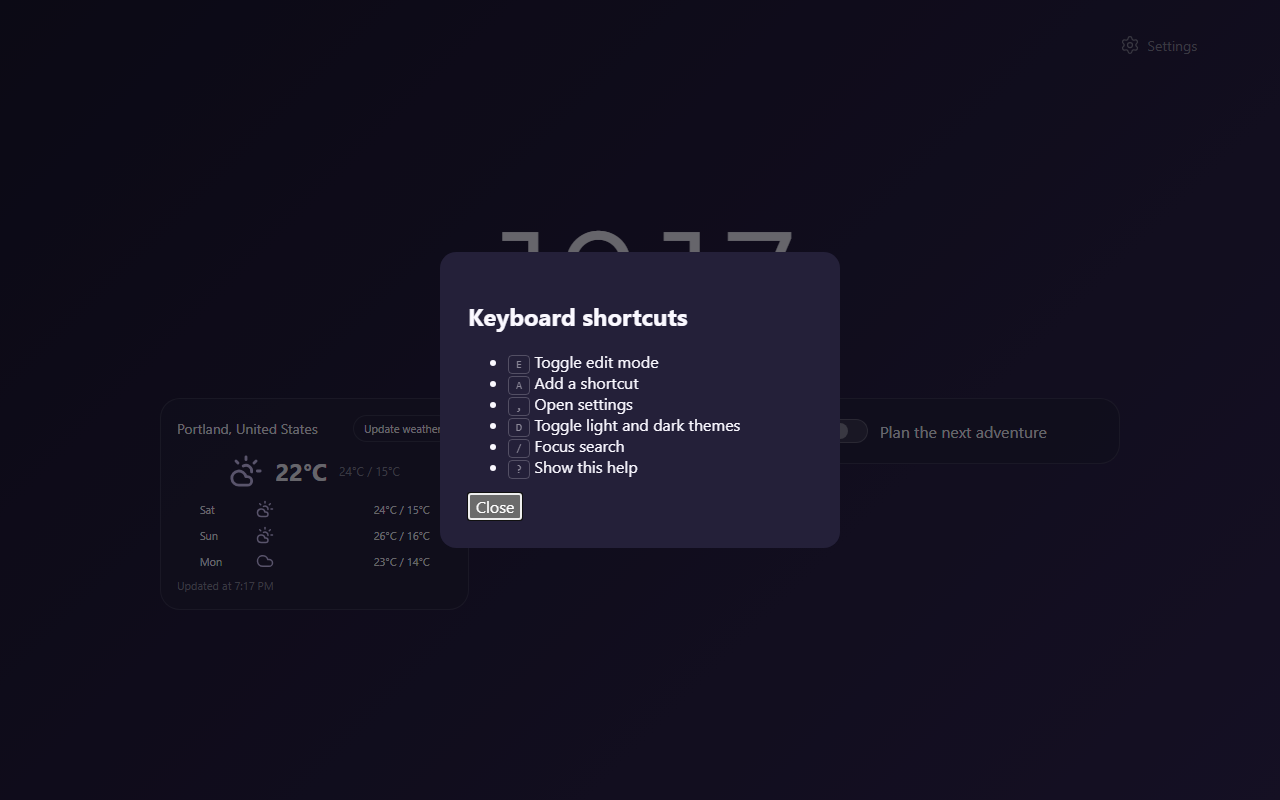
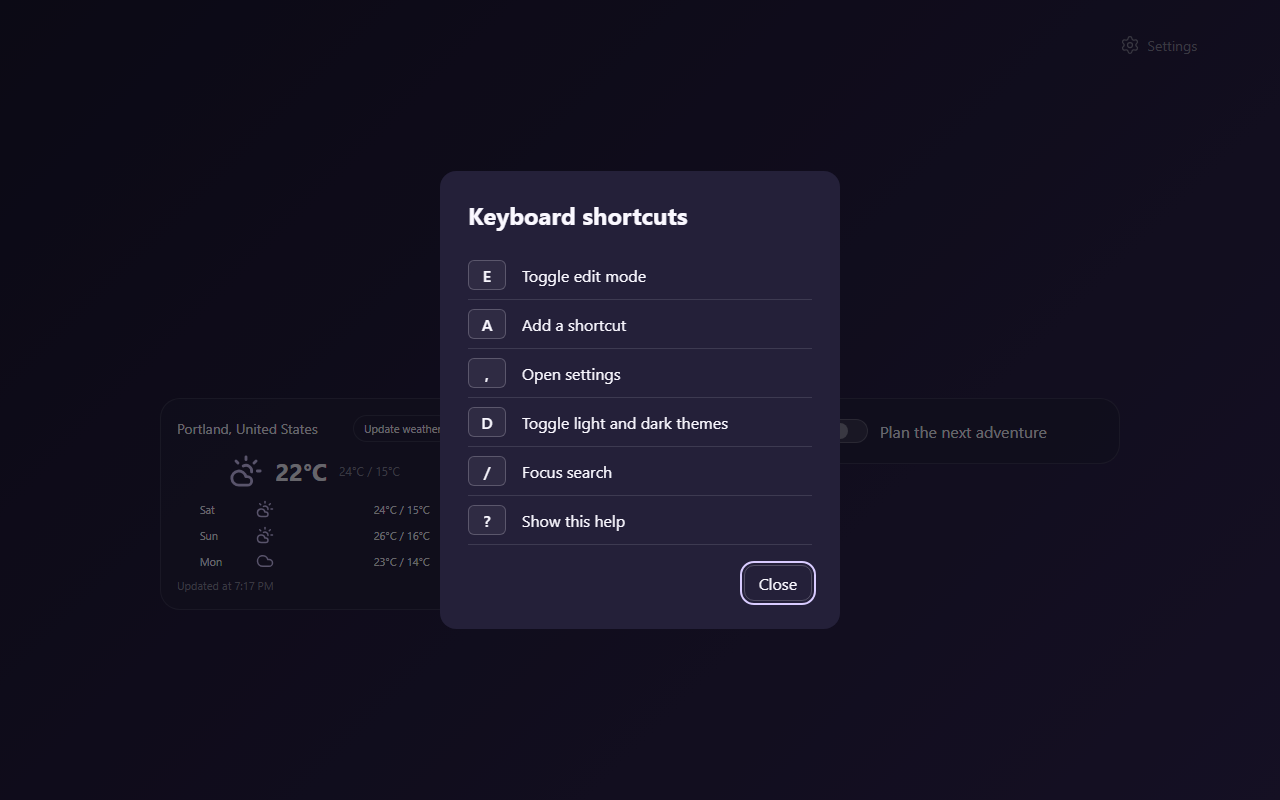
fix: style keyboard shortcuts dialog and preserve focus

Changed region(s): [[0.3438, 0.1875, 0.6562, 0.8125]]

diff --git a/src/app/App.tsx b/src/app/App.tsx
@@ -17,6 +17,7 @@ import { useSettings } from './useSettings'
 import { useAssetFonts } from './useAssetFonts'
 import { useUserCss } from './useUserCss'
 import { useWallpaper } from './useWallpaper'
+import { KeyboardHelp } from './KeyboardHelp'
 
 const SyncApp = lazy(() => import('./syncRuntime').then(m => ({ default: m.SyncApp })))
 const SettingsDrawer = lazy(() => import('../features/settings/SettingsDrawer').then(m => ({ default: m.SettingsDrawer })))
@@ -60,6 +61,7 @@ export default function App() {
     const onKeyDown = (event: KeyboardEvent) => {
       const target = event.target as HTMLElement | null
       const typing = !!target?.closest('input, textarea, select, [contenteditable]:not([contenteditable="false"])')
+      if (keyboardHelpOpen) return
       if ((event.ctrlKey || event.metaKey) && !event.shiftKey && event.key.toLowerCase() === 'z' && !typing) {
         event.preventDefault()
         undo()
@@ -76,7 +78,7 @@ export default function App() {
     }
     window.addEventListener('keydown', onKeyDown)
     return () => window.removeEventListener('keydown', onKeyDown)
-  }, [undo, settings, patch])
+  }, [undo, settings, patch, profile, keyboardHelpOpen])
   const [drawer, setDrawer] = useState(false)
   useEffect(() => { if (drawer) setSyncMounted(true) }, [drawer])
   const [managingGroups, setManagingGroups] = useState(false)
@@ -339,7 +341,7 @@ export default function App() {
       />}
 
       {menu && <ContextMenu x={menu.x} y={menu.y} items={menuItems(menu)} onClose={closeMenu} returnFocus={menu.focusTarget} />}
-      {keyboardHelpOpen && <div className="modal-backdrop" onClick={event => { if (event.target === event.currentTarget) setKeyboardHelpOpen(false) }}><div className="modal" role="dialog" aria-modal="true" aria-labelledby="keyboard-help-title" onKeyDown={event => { if (event.key === 'Escape') setKeyboardHelpOpen(false) }}><h2 id="keyboard-help-title">{t('keyboard.helpTitle')}</h2><ul>{(['edit', 'add', 'settings', 'theme', 'search', 'help'] as const).map((action, index) => <li key={action}><kbd>{['E', 'A', ',', 'D', '/', '?'][index]}</kbd> {t(`keyboard.${action}` as MessageKey)}</li>)}</ul><button type="button" autoFocus className="sd-button" onClick={() => setKeyboardHelpOpen(false)}>{t('common.close')}</button></div></div>}
+      {keyboardHelpOpen && <KeyboardHelp t={t} onClose={() => setKeyboardHelpOpen(false)} />}
       {moving && profile && <div className="modal-backdrop" role="presentation">
         <form className="modal" role="dialog" aria-modal="true" aria-labelledby="move-bookmark-title" onSubmit={moveShortcut} onKeyDown={event => { if (event.key === 'Escape') setMoving(null) }}>
           <h2 id="move-bookmark-title">{t('shortcuts.moveDialog')}</h2>

diff --git a/src/app/KeyboardHelp.test.tsx b/src/app/KeyboardHelp.test.tsx
@@ -1,0 +1,37 @@
+import '@testing-library/jest-dom/vitest'
+import { cleanup, fireEvent, render, screen } from '@testing-library/react'
+import { afterEach, expect, it, vi } from 'vitest'
+import { translate } from '../i18n'
+import { KeyboardHelp } from './KeyboardHelp'
+
+afterEach(cleanup)
+
+it('traps focus and restores it after Escape or backdrop dismissal', () => {
+  const opener = document.createElement('button')
+  document.body.appendChild(opener)
+  opener.focus()
+  const close = vi.fn()
+  const view = render(<KeyboardHelp t={key => translate('en', key)} onClose={close} />)
+  const button = screen.getByRole('button', { name: 'Close' })
+  expect(button).toHaveFocus()
+  fireEvent.keyDown(button, { key: 'Tab' })
+  expect(button).toHaveFocus()
+  fireEvent.keyDown(button, { key: 'Tab', shiftKey: true })
+  expect(button).toHaveFocus()
+  fireEvent.keyDown(button, { key: 'Escape' })
+  expect(close).toHaveBeenCalledTimes(1)
+  view.unmount()
+  expect(opener).toHaveFocus()
+  opener.remove()
+})
+
+it('closes only when clicking the backdrop and renders Chinese labels', () => {
+  const close = vi.fn()
+  const { container } = render(<KeyboardHelp t={key => translate('zh-CN', key)} onClose={close} />)
+  const dialog = screen.getByRole('dialog')
+  expect(dialog.querySelectorAll('kbd')).toHaveLength(6)
+  fireEvent.click(dialog)
+  expect(close).not.toHaveBeenCalled()
+  fireEvent.click(container.querySelector('.modal-backdrop')!)
+  expect(close).toHaveBeenCalledTimes(1)
+})

diff --git a/src/app/KeyboardHelp.tsx b/src/app/KeyboardHelp.tsx
@@ -1,0 +1,27 @@
+import { useEffect, useRef } from 'react'
+import type { Translate } from '../i18n'
+
+const shortcuts = [
+  ['E', 'keyboard.edit'], ['A', 'keyboard.add'], [',', 'keyboard.settings'],
+  ['D', 'keyboard.theme'], ['/', 'keyboard.search'], ['?', 'keyboard.help'],
+] as const
+
+export function KeyboardHelp({ t, onClose }: { t: Translate; onClose: () => void }) {
+  const closeButton = useRef<HTMLButtonElement>(null)
+  useEffect(() => {
+    const previous = document.activeElement instanceof HTMLElement ? document.activeElement : null
+    closeButton.current?.focus()
+    return () => { if (previous?.isConnected) previous.focus() }
+  }, [])
+
+  return <div className="modal-backdrop" onClick={event => { if (event.target === event.currentTarget) onClose() }}>
+    <div className="modal keyboard-help" role="dialog" aria-modal="true" aria-labelledby="keyboard-help-title" onKeyDown={event => {
+      if (event.key === 'Escape') { event.stopPropagation(); onClose() }
+      else if (event.key === 'Tab') { event.preventDefault(); closeButton.current?.focus() }
+    }}>
+      <h2 id="keyboard-help-title">{t('keyboard.helpTitle')}</h2>
+      <ul className="keyboard-help-list">{shortcuts.map(([key, label]) => <li key={label}><kbd>{key}</kbd><span>{t(label)}</span></li>)}</ul>
+      <div className="keyboard-help-actions"><button ref={closeButton} type="button" className="sd-button" onClick={onClose}>{t('common.close')}</button></div>
+    </div>
+  </div>
+}

diff --git a/src/styles/widgets.css b/src/styles/widgets.css
@@ -392,6 +392,15 @@
     border-radius: 12px;
   }
 
+  .keyboard-help h2 { margin: 0 0 20px; }
+  .keyboard-help-list { list-style: none; margin: 0; padding: 0; display: grid; }
+  .keyboard-help-list li { display: grid; grid-template-columns: 38px 1fr; align-items: center; gap: 16px; padding: 9px 0; border-bottom: 1px solid var(--mnt-border); }
+  .keyboard-help-list kbd { display: inline-grid; place-items: center; min-width: 32px; min-height: 30px; padding: 0 6px; border-radius: 6px; background: var(--mnt-surface-hover); color: var(--mnt-text); font: inherit; font-weight: 600; }
+  .keyboard-help-actions { display: flex; justify-content: flex-end; margin-top: 20px; }
+  .keyboard-help .sd-button { min-height: 36px; padding: 0 14px; border: 1px solid var(--mnt-border-strong); border-radius: 10px; background: none; color: var(--mnt-text); font: inherit; cursor: pointer; }
+  .keyboard-help .sd-button:hover { border-color: var(--mnt-accent); }
+  .keyboard-help .sd-button:focus-visible { outline: 2px solid var(--mnt-accent); outline-offset: 2px; }
+
   .primary {
     width: 100%;
     padding: 12px;

diff --git a/scripts/store-screenshots.config.ts b/scripts/store-screenshots.config.ts
@@ -1,4 +1,5 @@
 import { defineConfig } from '@playwright/test'
+import { fileURLToPath } from 'node:url'
 
 export default defineConfig({
   testDir: '.',
@@ -6,7 +7,7 @@ export default defineConfig({
   fullyParallel: false,
   workers: 1,
   webServer: {
-    cwd: '..',
+    cwd: fileURLToPath(new URL('..', import.meta.url)),
     command: 'npx vite --host 127.0.0.1 --port 4178 --strictPort',
     url: 'http://127.0.0.1:4178',
     reuseExistingServer: false,
